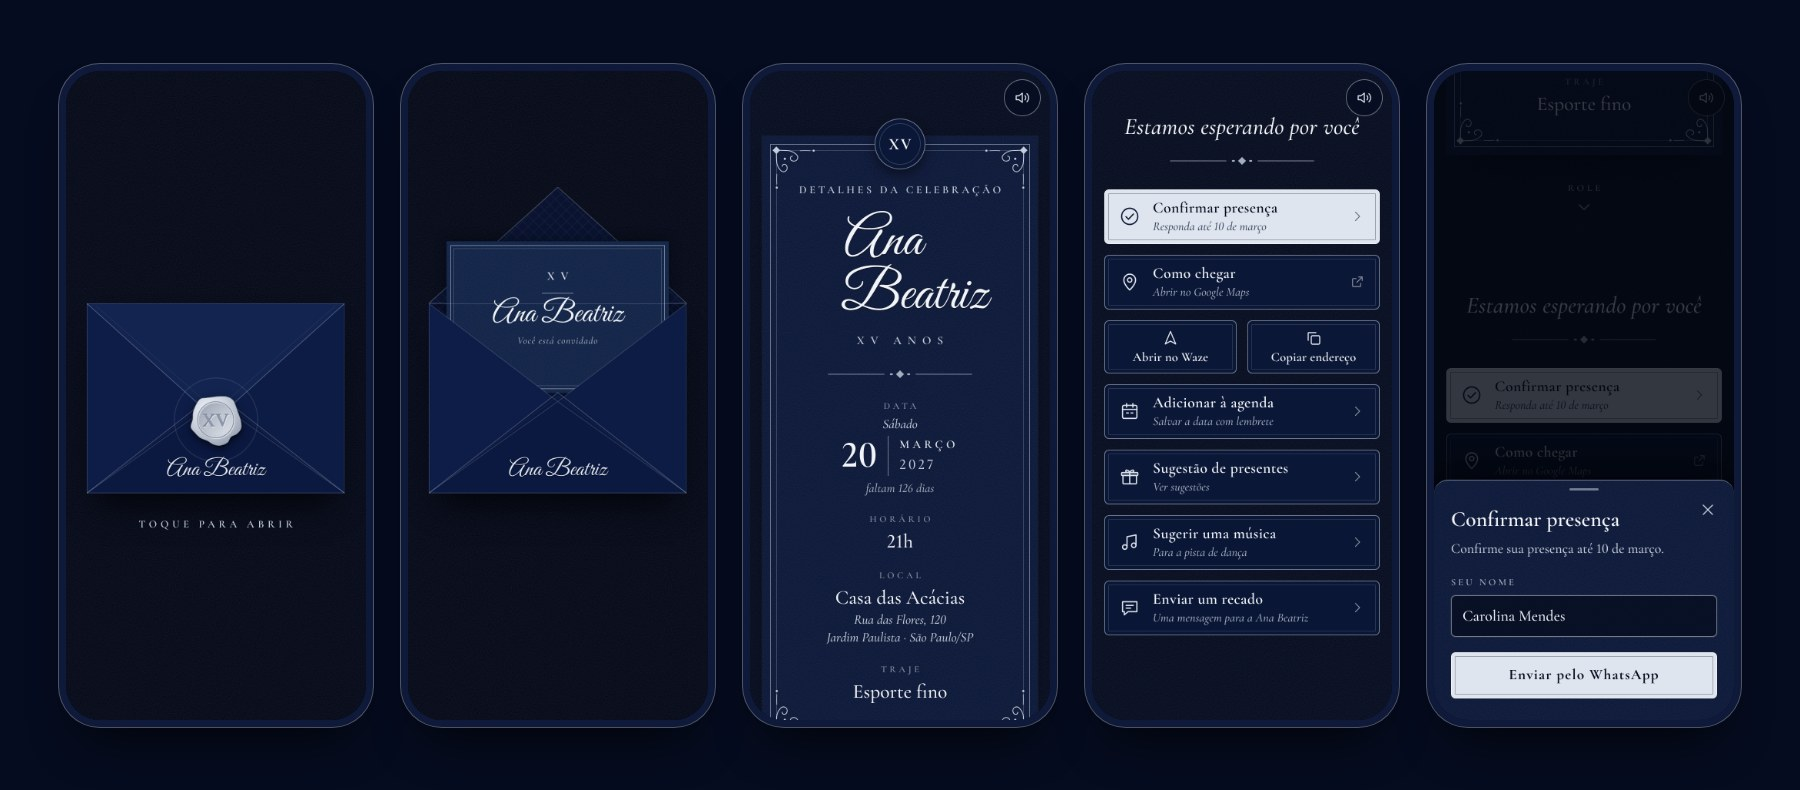
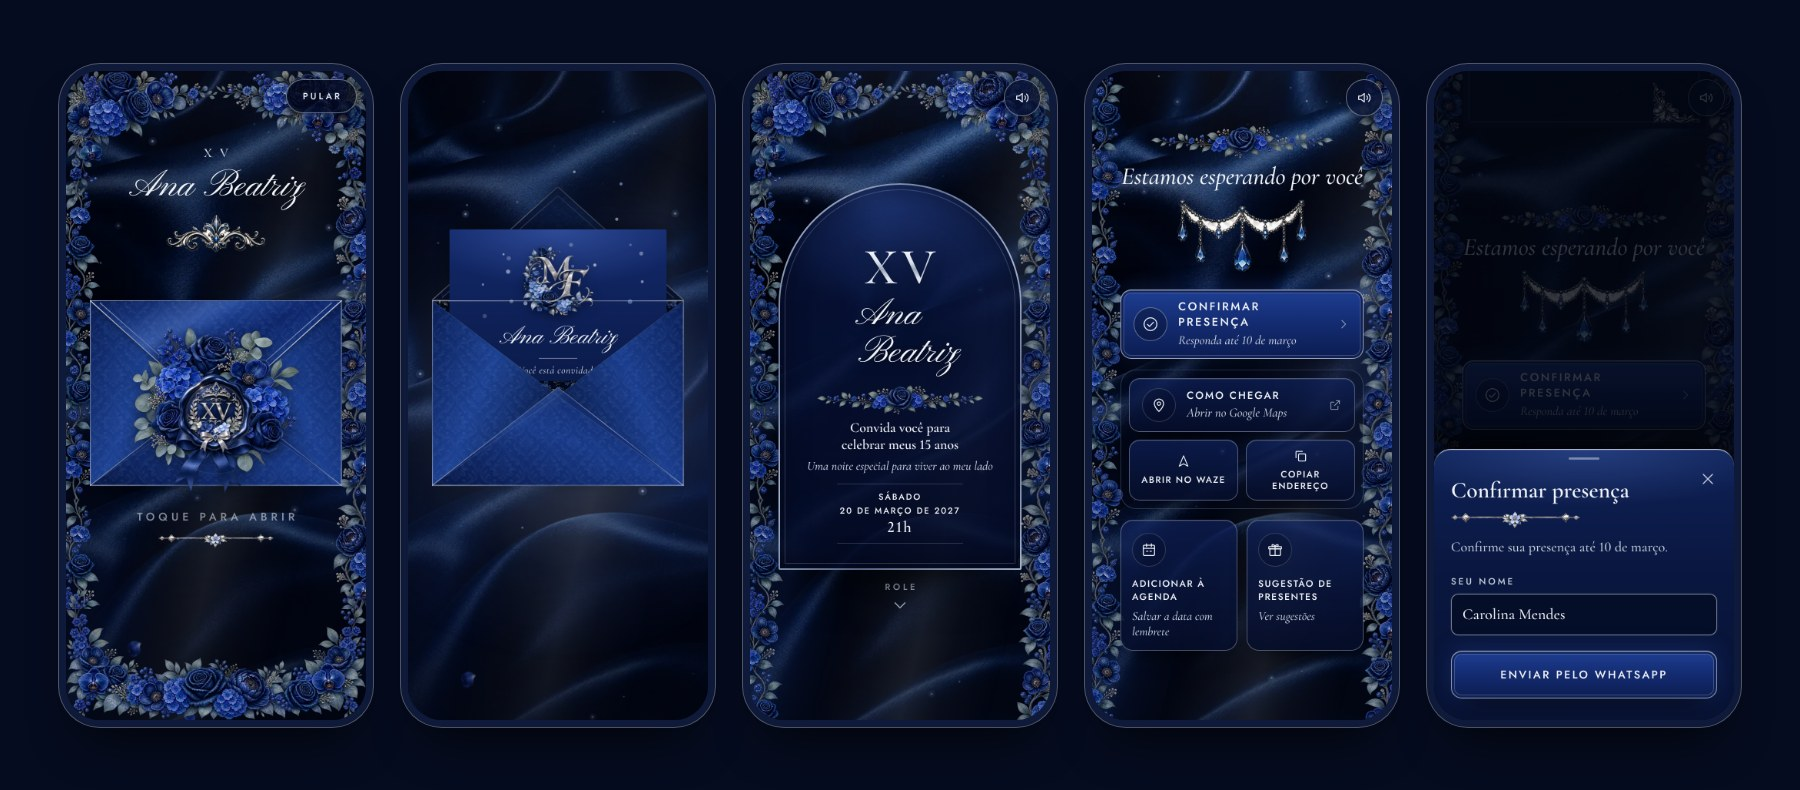
Revisão final: prévia do link no WhatsApp e imagens do README no visual novo
- preview.jpg (og:image) refeita com cetim, faixas florais e o nome;
  og:image com ?v=2 para o WhatsApp não reaproveitar a prévia antiga
- docs/hero.jpg, social-preview.png e demo.gif refeitos com dados fictícios

Claude-Session: https://claude.ai/code/session_01HrQzDJ48b2GaZGgzArpSWo

diff --git a/index.html b/index.html
@@ -30,7 +30,7 @@
   <meta property="og:title" content="XV Anos · Maria Fernanda">
   <meta property="og:description" content="Você está convidado. Toque para abrir o convite.">
   <meta property="og:url" content="https://gilded-naiad-b9886f.netlify.app/">
-  <meta property="og:image" content="https://gilded-naiad-b9886f.netlify.app/assets/img/preview.jpg">
+  <meta property="og:image" content="https://gilded-naiad-b9886f.netlify.app/assets/img/preview.jpg?v=2">
   <meta property="og:image:width" content="1200">
   <meta property="og:image:height" content="630">
 
